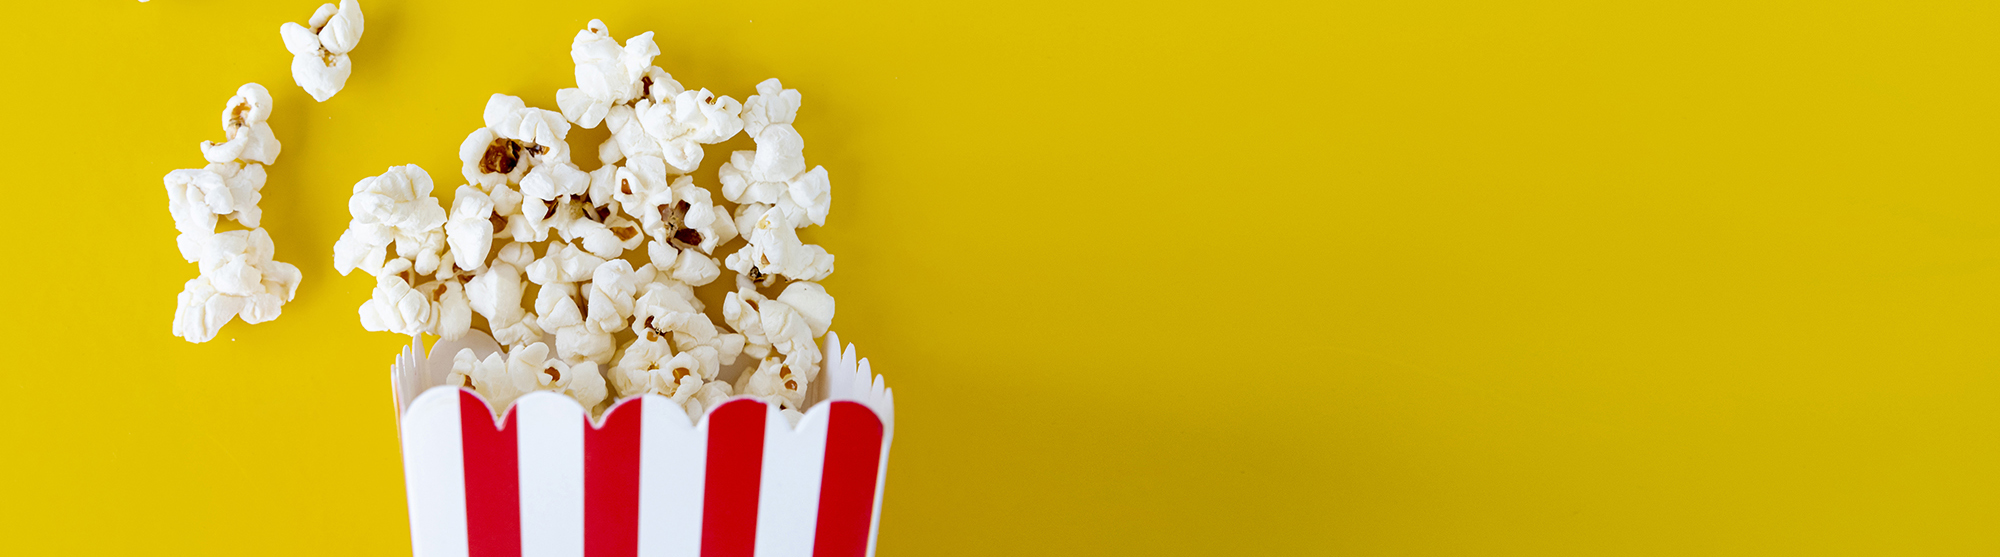
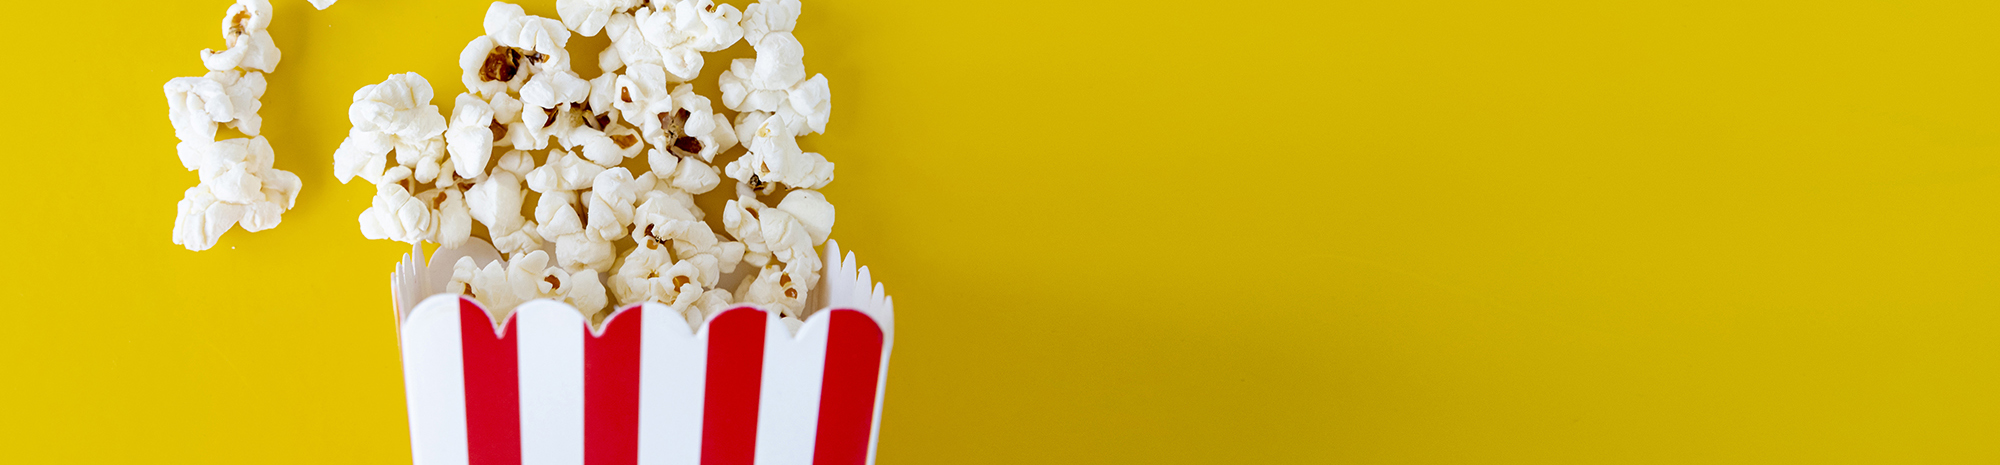
Update 2

Changed region(s): [[0.062, 0.0, 0.465, 0.9333]]

diff --git a/style.css b/style.css
@@ -113,22 +113,17 @@ padding-right: 15px;
 
 .banner {
 background-image: url(banner.jpg);
-height: 450px;
-}
-
-.bannertext {
-font-size: 4em;
-font-family: "Roboto-Light";
-vertical-align: middle;
-text-align: center;
-background-color: rgba(0,0,0,0.35);
-padding-top: 200px;
+height: 350px;
 }
 
 .logo {
+
 max-width: 1338px;
+margin-left: auto;
+margin-right: auto;
 width: 100%;
-padding-top: 50px;
+
+margin-top: 60px;
 }
 
 @font-face {

diff --git a/content.html b/content.html
@@ -3,7 +3,7 @@
   <link href="style.css" rel="stylesheet" type="text/css">
 </head>
 <body>
-<div class="banner"><img class="logo" src="logo.png" ></div>
+<div class="banner"><img class="logo" src="logo.png"></div>
 <h1>Nyheter</h1>
 <div class="movies">
   <div><img class="movie" src="Filmer/5.jpg"></div>
